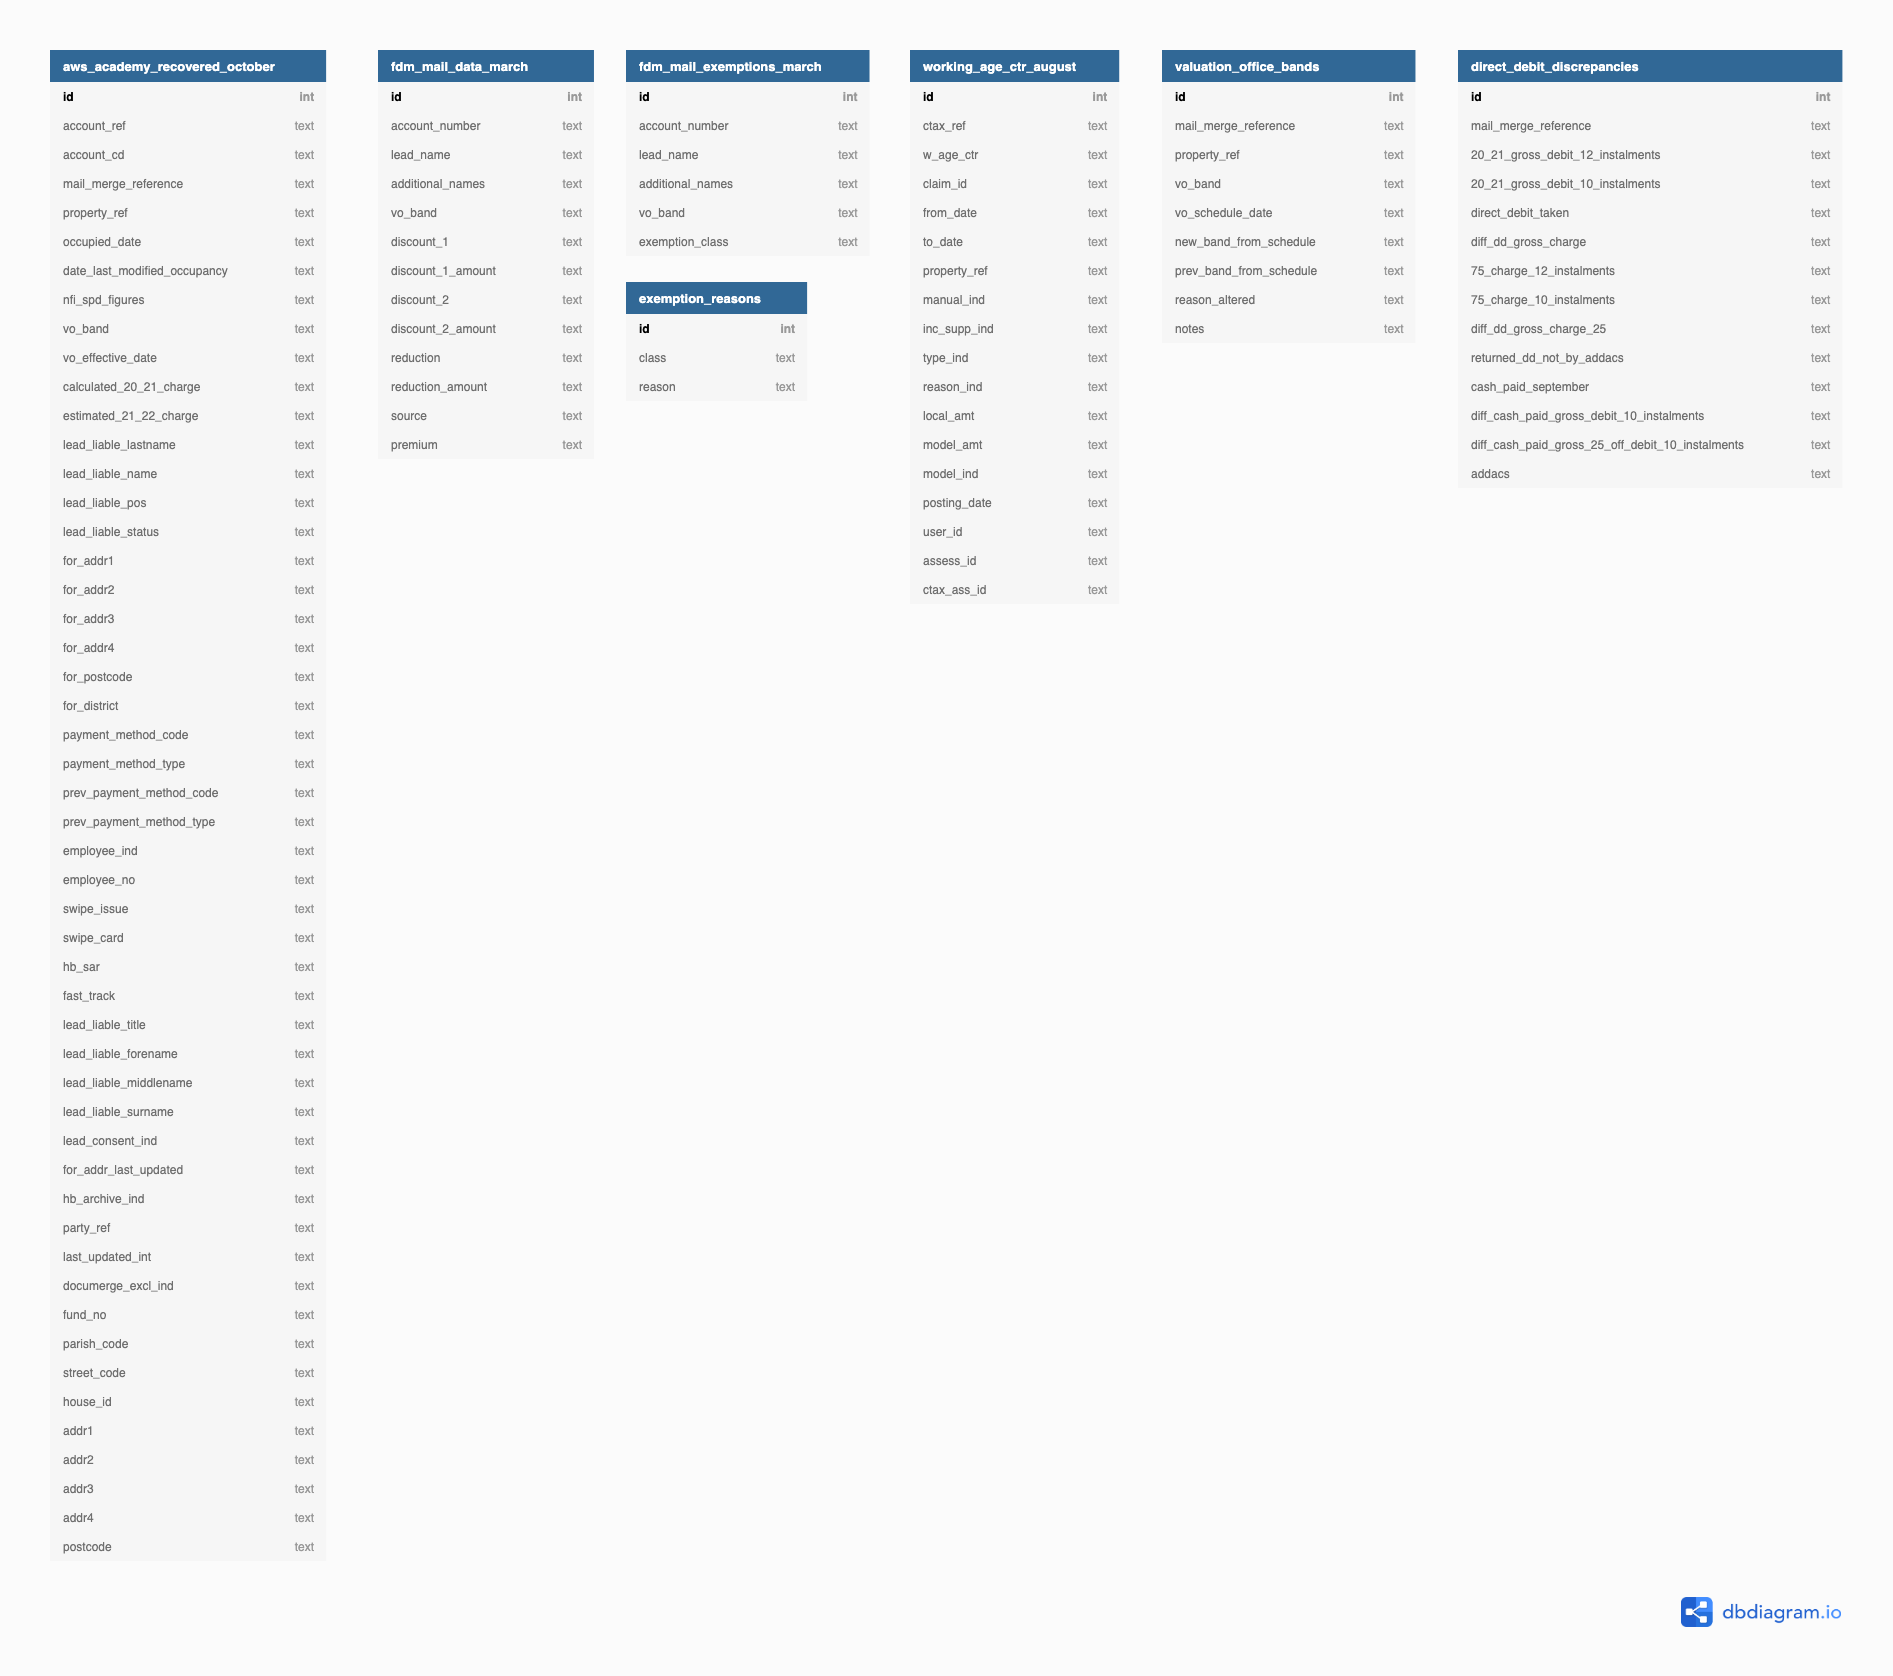
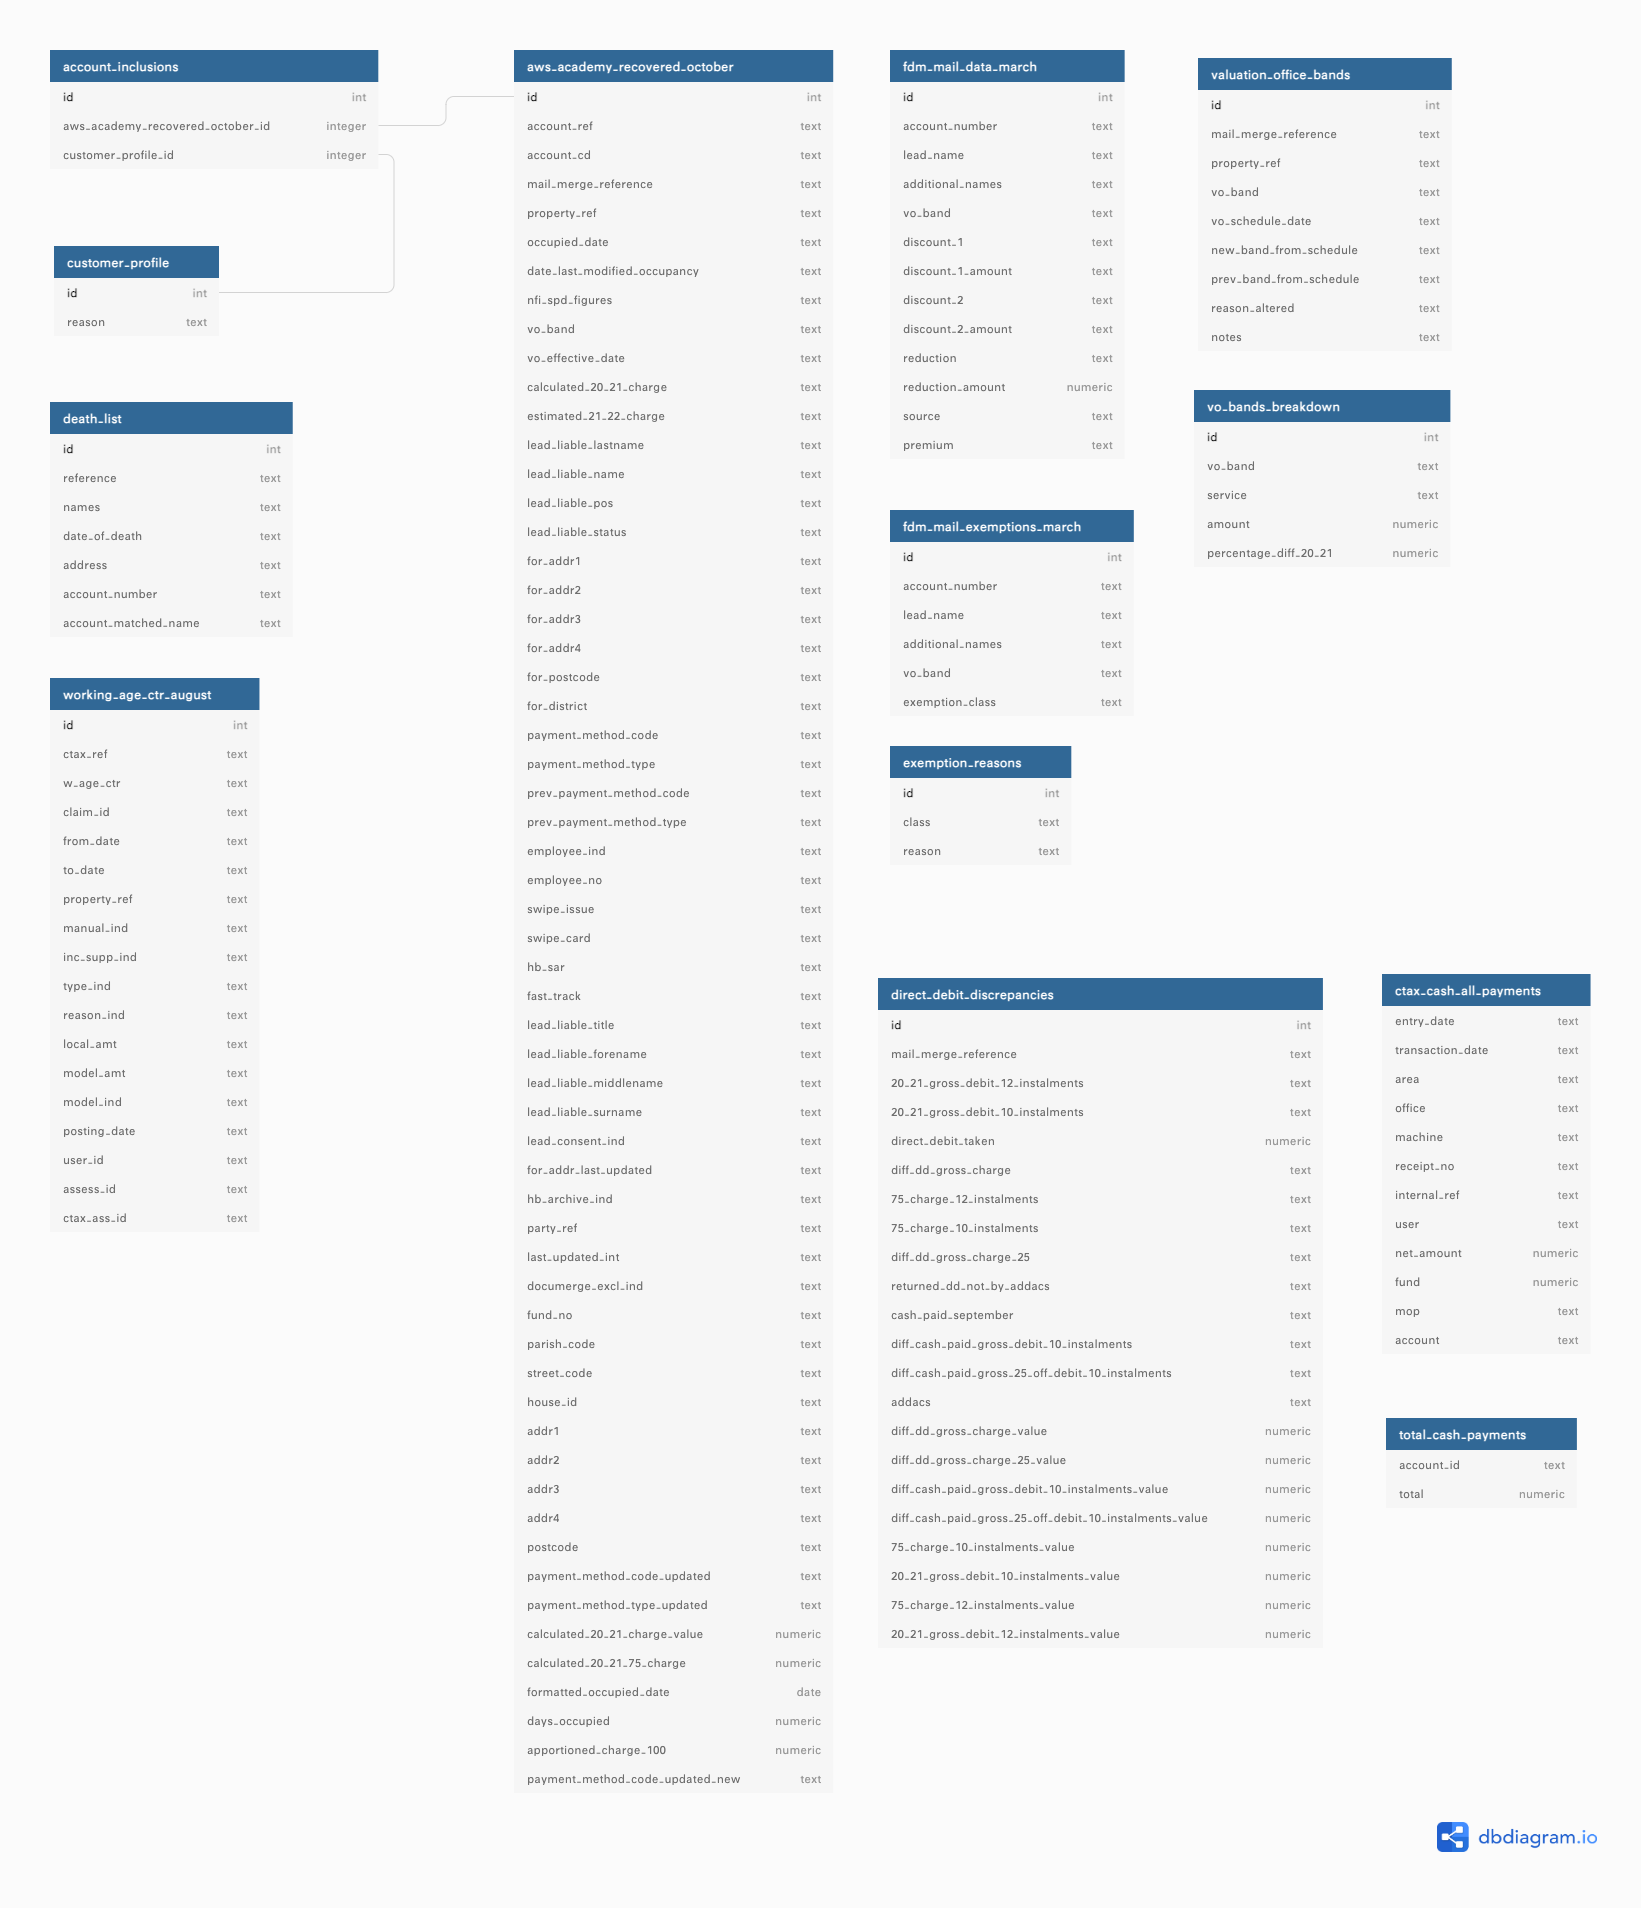
Update low-level diagram of database
This also includes the upcoming change of names for these table:
- `account_exclusions` table -> `account_inclusions`
- `exclusion_reasons` table -> `customer_profile`

diff --git a/README.md b/README.md
@@ -104,6 +104,16 @@ $ python high_level_diagram.py
 ```
 5. Commit the updated image and Python script
 
+### Low-level diagram
+
+The [Low-level diagram](./low_level_diagram.png) is generated using <https://dbdiagram.io/>.
+
+1. At [dbdiagram.io](https://dbdiagram.io/d), click on `import` and select an import type of PostgreSQL.
+2. Paste the [DDL](https://www.w3schools.in/mysql/ddl-dml-dcl/#DDL) (ie. data description language) of the updated database and click submit.
+3. Drag and drop the tables into the desired arrangement
+4. Click on `export` and select `export to PNG`
+5. Save new diagram in `/docs`
+
 ## Documentation
 
 - [Database](./docs/database.md) - overview of the database

diff --git a/docs/database.md b/docs/database.md
@@ -8,7 +8,4 @@
 
 ![Low-level diagram of database sources](./low_level_diagram.png)
 
-<!--
-This diagram was created using https://dbdiagram.io/, you can updated it at
-https://dbdiagram.io/d/5ffc728c80d742080a35d8ed.
--->
+This diagram was created using <https://dbdiagram.io/>
